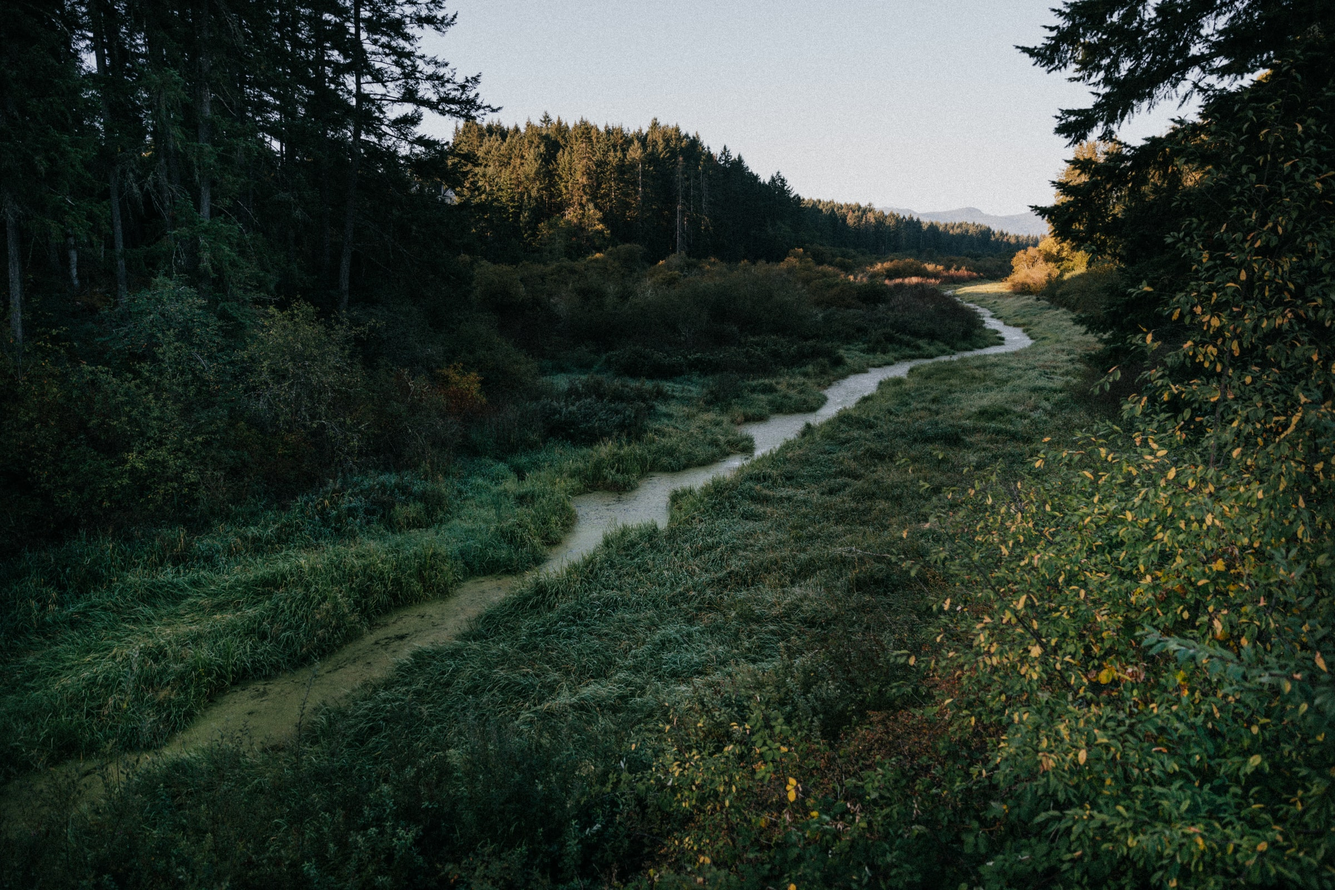
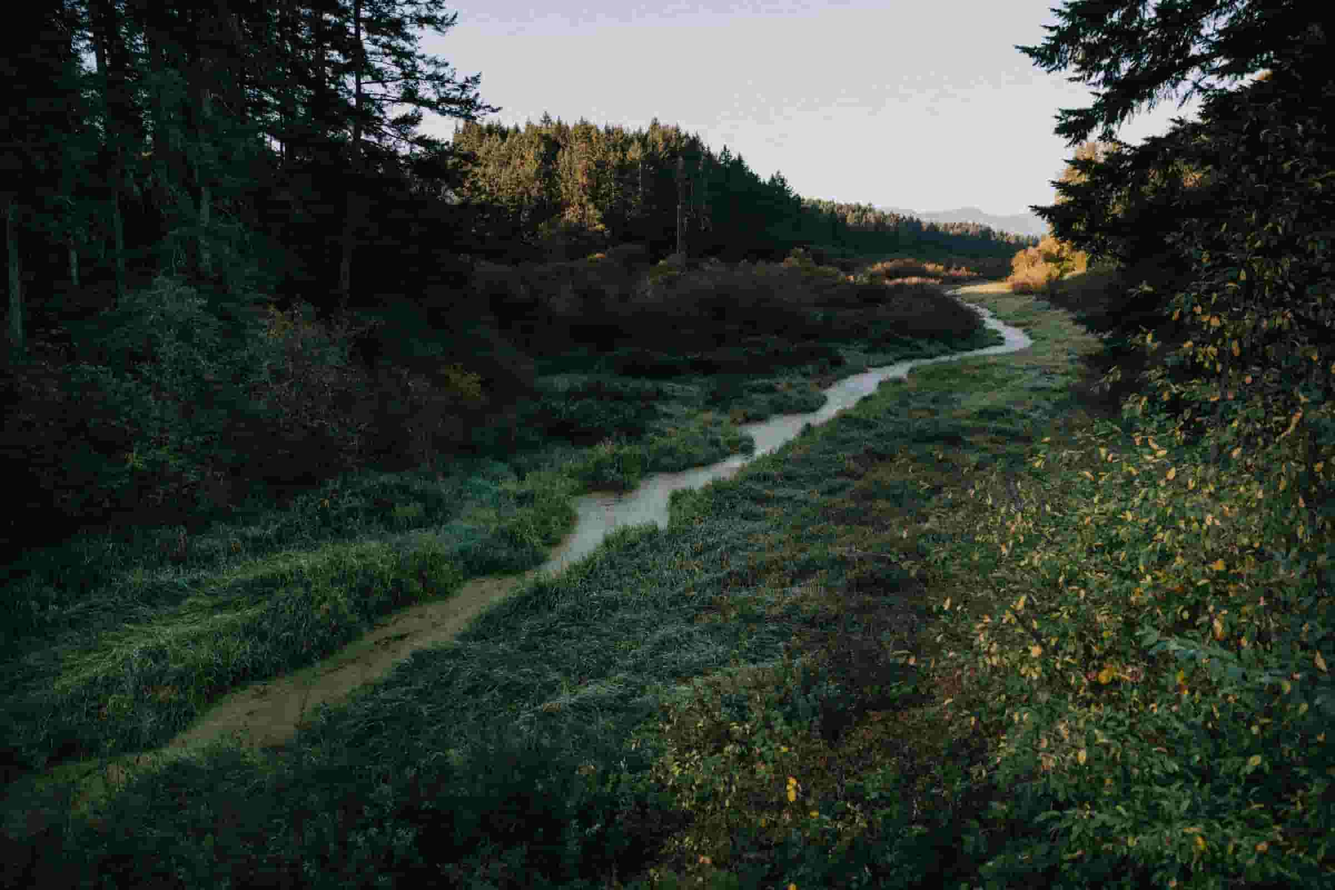
feat: minimize images

diff --git a/src/lib/components/Body.svelte b/src/lib/components/Body.svelte
@@ -1,5 +1,5 @@
 <script>
-	export let classes: string;
+	export let classes: string = '';
 </script>
 
 <main
